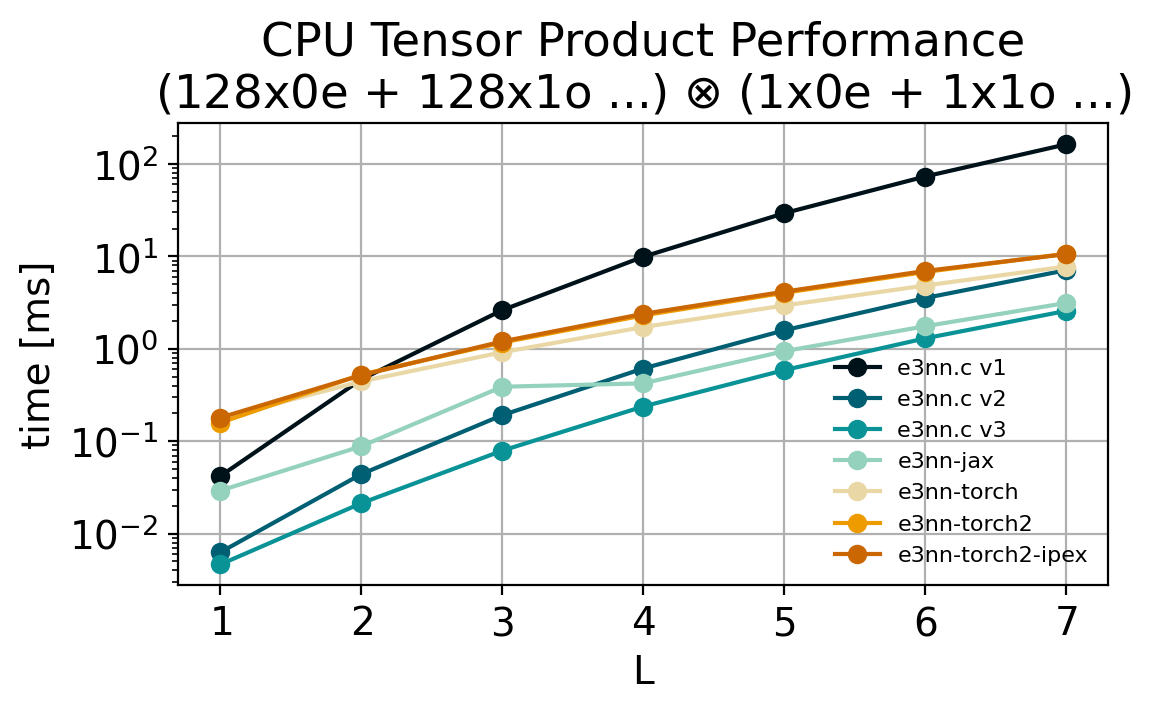
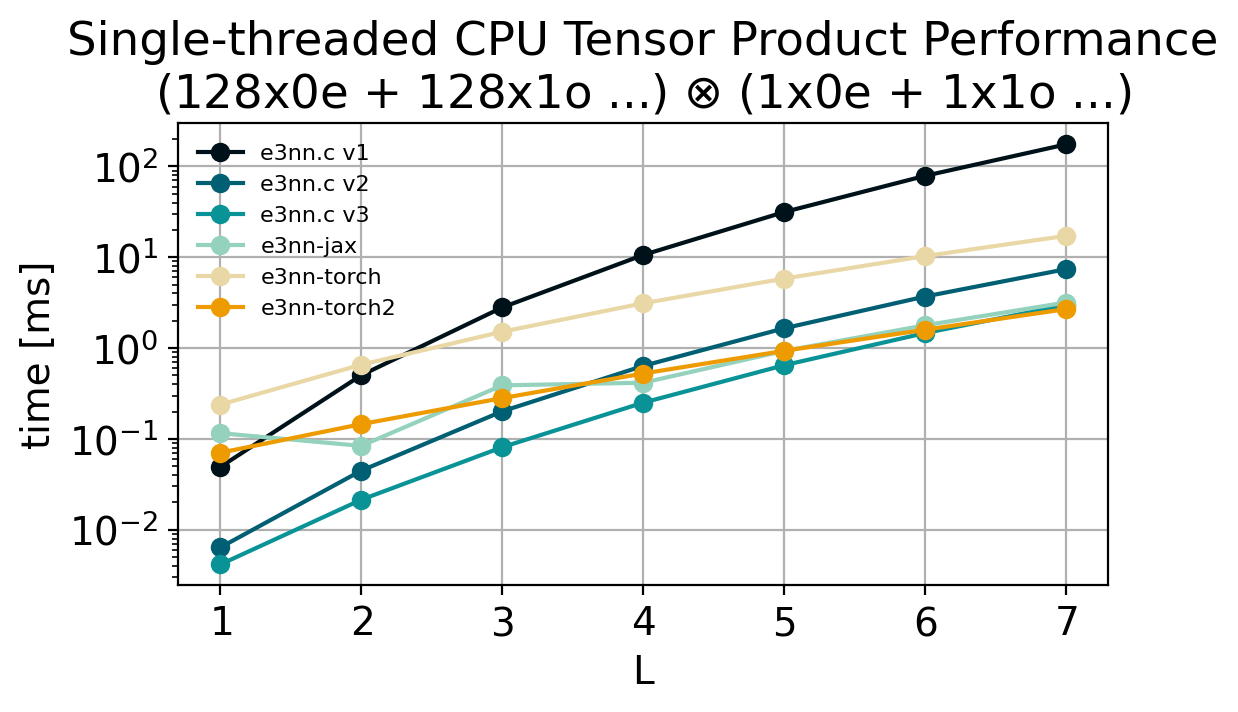
run benchmarks in order, ensure benchmark_c.c is recompiled if benchmark_python.py changes, plot edit

diff --git a/extra/plot_benchmark.py b/extra/plot_benchmark.py
@@ -27,12 +27,12 @@ plt.ylabel("time [ms]")
 plt.xlabel("L")
 plt.legend(fontsize=8)
 plt.grid()
-plt.title("Singlthreaded CPU Tensor Product Performance\n" + rf"({channels}x0e + {channels}x1o ...) $\otimes$ (1x0e + 1x1o ...)")
+plt.title("Single-threaded CPU Tensor Product Performance\n" + rf"({channels}x0e + {channels}x1o ...) $\otimes$ (1x0e + 1x1o ...)")
 plt.savefig("extra/benchmark_versions.png", dpi=200, bbox_inches="tight", transparent=False)
 plt.close(fig)
 
 fig = plt.figure(figsize=(6,3))
-for name in ["e3nn.c v3", "e3nn-jax", "e3nn-torch", "e3nn-torch2", "e3nn-torch2-ipex"]:
+for name in ["e3nn.c v3", "e3nn-jax", "e3nn-torch", "e3nn-torch2"]: # , "e3nn-torch2-ipex"]:
     label = "e3nn.c" if "e3nn.c" in name else name
     plt.plot(data[name]["lmax"], data[name]["time"], label=label)
 plt.yscale("log")
@@ -40,6 +40,6 @@ plt.ylabel("time [ms]")
 plt.xlabel("L")
 plt.legend(fontsize=8)
 plt.grid()
-plt.title("Singlethreaded CPU Tensor Product Performance\n" + rf"({channels}x0e + {channels}x1o ...) $\otimes$ (1x0e + 1x1o ...)")
+plt.title("Single-threaded CPU Tensor Product Performance\n" + rf"({channels}x0e + {channels}x1o ...) $\otimes$ (1x0e + 1x1o ...)")
 plt.savefig("extra/benchmark.png", dpi=200, bbox_inches="tight", transparent=False)
 plt.close(fig)

diff --git a/extra/benchmark_python.py b/extra/benchmark_python.py
@@ -94,15 +94,15 @@ def run_e3nn_torch2_ipex(lmax):
         print(f"{lmax},", benchmark(tp, input1, input2))
 
 def main():
-    for lmax in range(1, L):
-        print("e3nn-jax")
-        run_e3nn_jax(lmax)
-        print("e3nn-torch")
-        run_e3nn_torch(lmax)
-        print("e3nn-torch2")
-        run_e3nn_torch2(lmax)
-        print("e3nn_torch2_ipex(")
-        run_e3nn_torch2_ipex(lmax)
- 
+    for run_fn, name in [
+        (run_e3nn_jax, "e3nn-jax"),
+        (run_e3nn_torch, "e3nn-torch"),
+        (run_e3nn_torch2, "e3nn-torch2"),
+        # (run_e3nn_torch2_ipex, "e3nn-torch2-ipex"),
+    ]:
+        print(name)
+        for lmax in range(1, L):
+            run_fn(lmax)
+
 if __name__ == "__main__":
     main()
